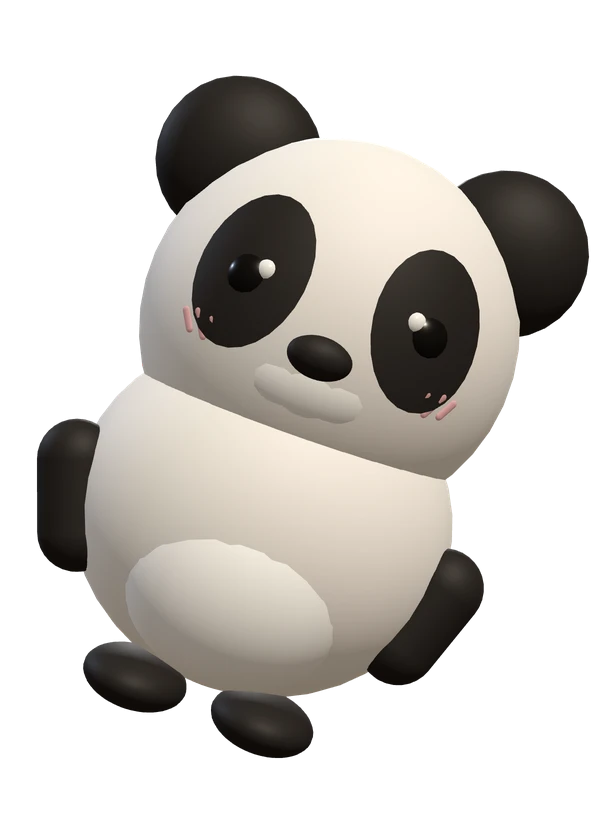
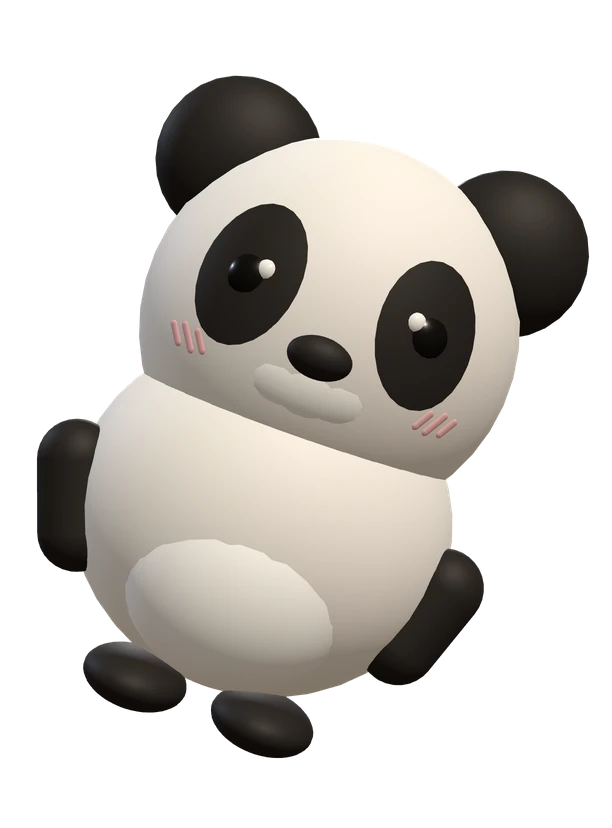
fix(pet): give the panda's blush its own spot beside the eye patch
무늬를 살려 놓았더니 이번에는 볼의 분홍 빗금 위를 덮어 뭉개져 보였다.

재어 보니 자리가 애초에 모자랐다. 눈에서 볼까지가 0.33(머리 반지름 단위)인데 눈알이
0.15, 빗금 무리가 0.11 을 쓴다. 그 사이에 남는 것이 0.07 뿐이라, 눈을 감싸는 무늬를
그리면 반드시 빗금을 침범한다.

무늬를 그만큼 줄이면 눈보다 조금 큰 테두리가 되어 판다로 안 읽힌다. 그래서 반대로
볼에 자리를 내주었다 — 눈 무늬가 있는 종만 볼을 조금 더 아래·바깥에 둔다. 나머지
넷은 그대로다.

랜딩 그림 세 장을 다시 떴다.

Claude-Session: https://claude.ai/code/session_01H7k6zGKNC7MhCaGvE2tvkv

diff --git a/apps/desktop/src/renderer/pet/critter.ts b/apps/desktop/src/renderer/pet/critter.ts
@@ -114,7 +114,8 @@ export function createCritter(spec: CharacterSpec): Critter {
   buildSnout(head, parts, materials, headR, build.snout)
   if (build.patches.includes('pandaEyes')) buildPandaEyePatches(head, materials, headR)
   buildEyes(head, parts, materials, headR)
-  buildCheeks(head, parts, materials, headR)
+  // 눈 무늬가 있는 종은 볼을 비켜 놓는다 — 아래 buildCheeks 주석 참고
+  buildCheeks(head, parts, materials, headR, build.patches.includes('pandaEyes'))
   buildEars(head, parts, materials, headR, build.ears)
 
   // ── 팔 (실루엣 밖으로 확실히 나오게 어깨를 몸통 옆면에 붙인다) ──
@@ -274,11 +275,11 @@ function buildPandaEyePatches(
    * 무늬가 덮는 각도(라디안). 눈보다는 넉넉하고 볼보다는 좁아야 한다 —
    * 더 키우면 볼의 분홍 빗금을 덮어 검은 바탕에 분홍이 떠 있는 꼴이 된다.
    */
-  const SPREAD = 0.34
+  const SPREAD = 0.31
 
   for (const side of [-1, 1]) {
-    // 눈이 있는 쪽을 바라보게 — 눈 피벗보다 아주 조금 위다 (눈이 무늬 가운데 오도록)
-    const toward = new THREE.Vector3(side * 0.41, 0.11, 0.8).normalize()
+    // 눈이 있는 쪽을 바라보게 — 눈 피벗과 거의 같은 방향이라 눈이 무늬 가운데 온다
+    const toward = new THREE.Vector3(side * 0.41, 0.09, 0.8).normalize()
 
     const aim = new THREE.Group()
     aim.quaternion.setFromUnitVectors(new THREE.Vector3(0, 1, 0), toward)
@@ -305,13 +306,21 @@ function buildCheeks(
   parts: CritterParts,
   materials: CritterMaterials,
   headR: number,
+  makeRoomForPatches = false,
 ) {
   const STROKES = 3
   const middleIndex = (STROKES - 1) / 2
 
+  // 눈에서 볼까지는 0.33(반지름 단위)뿐인데 눈알이 0.15, 빗금 무리가 0.11 을 쓴다.
+  // 그 사이에 검은 무늬가 들어갈 자리가 0.07 밖에 없어서, 무늬를 눈에 맞춰 그리면
+  // 빗금 위를 덮어 분홍이 뭉개진다. 그래서 무늬가 있는 종만 볼을 아래·바깥으로
+  // 비켜 놓는다 — 무늬를 줄이는 대신 자리를 내주는 쪽이다.
+  const spread = makeRoomForPatches ? 0.62 : 0.58
+  const drop = makeRoomForPatches ? 0.28 : 0.2
+
   for (const side of [-1, 1]) {
-    const x = side * headR * 0.58
-    const y = -headR * 0.2
+    const x = side * headR * spread
+    const y = -headR * drop
     const z = Math.sqrt(Math.max(headR * headR - x * x - y * y, 0))
 
     const cheek = new THREE.Group()
